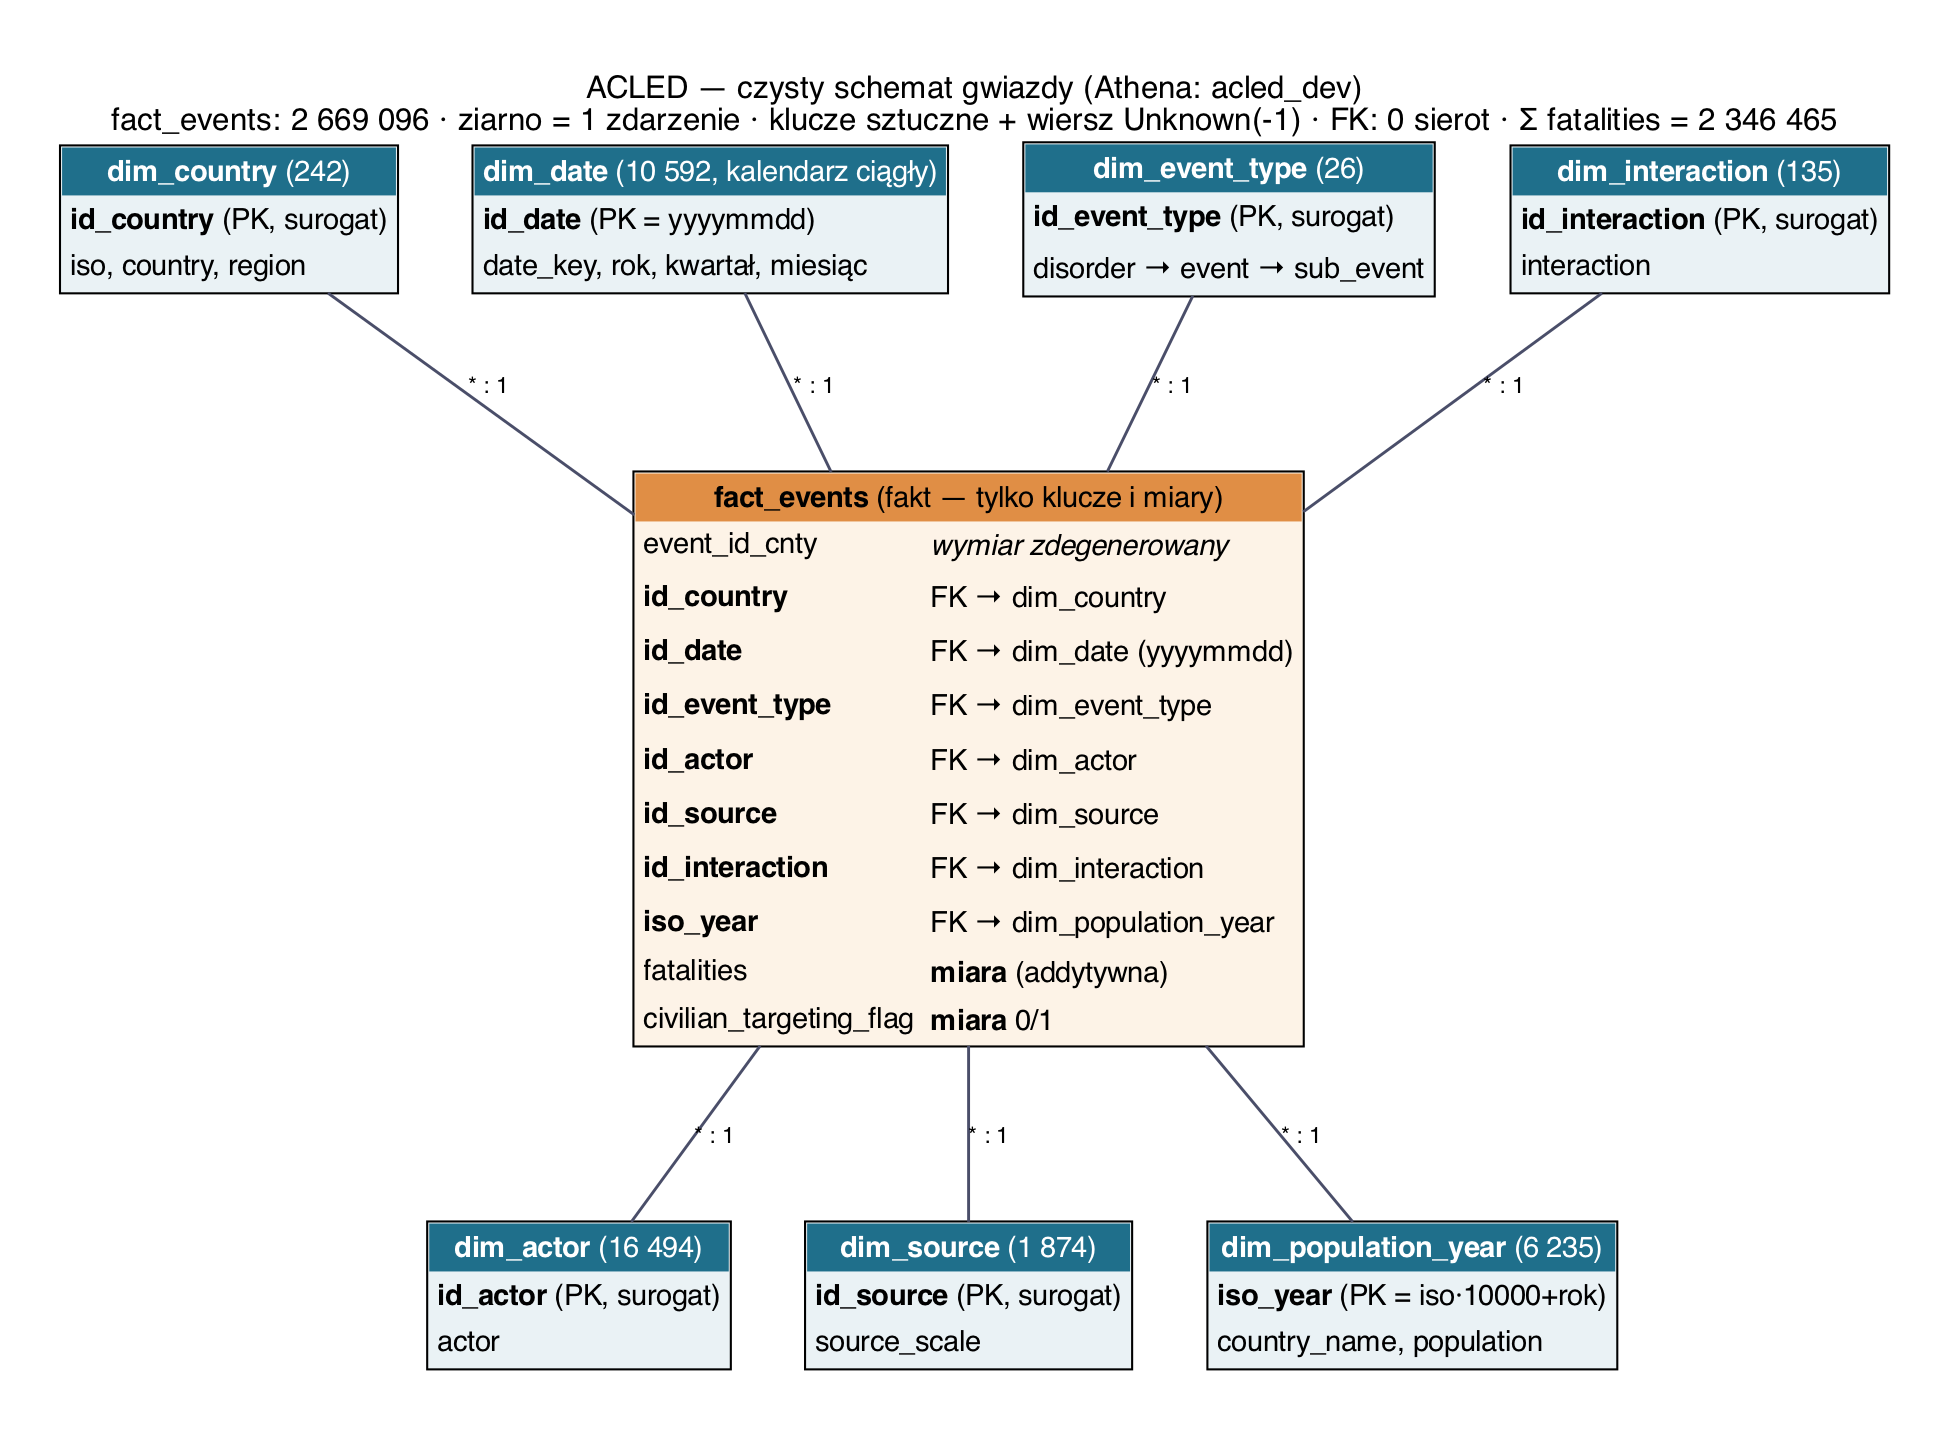
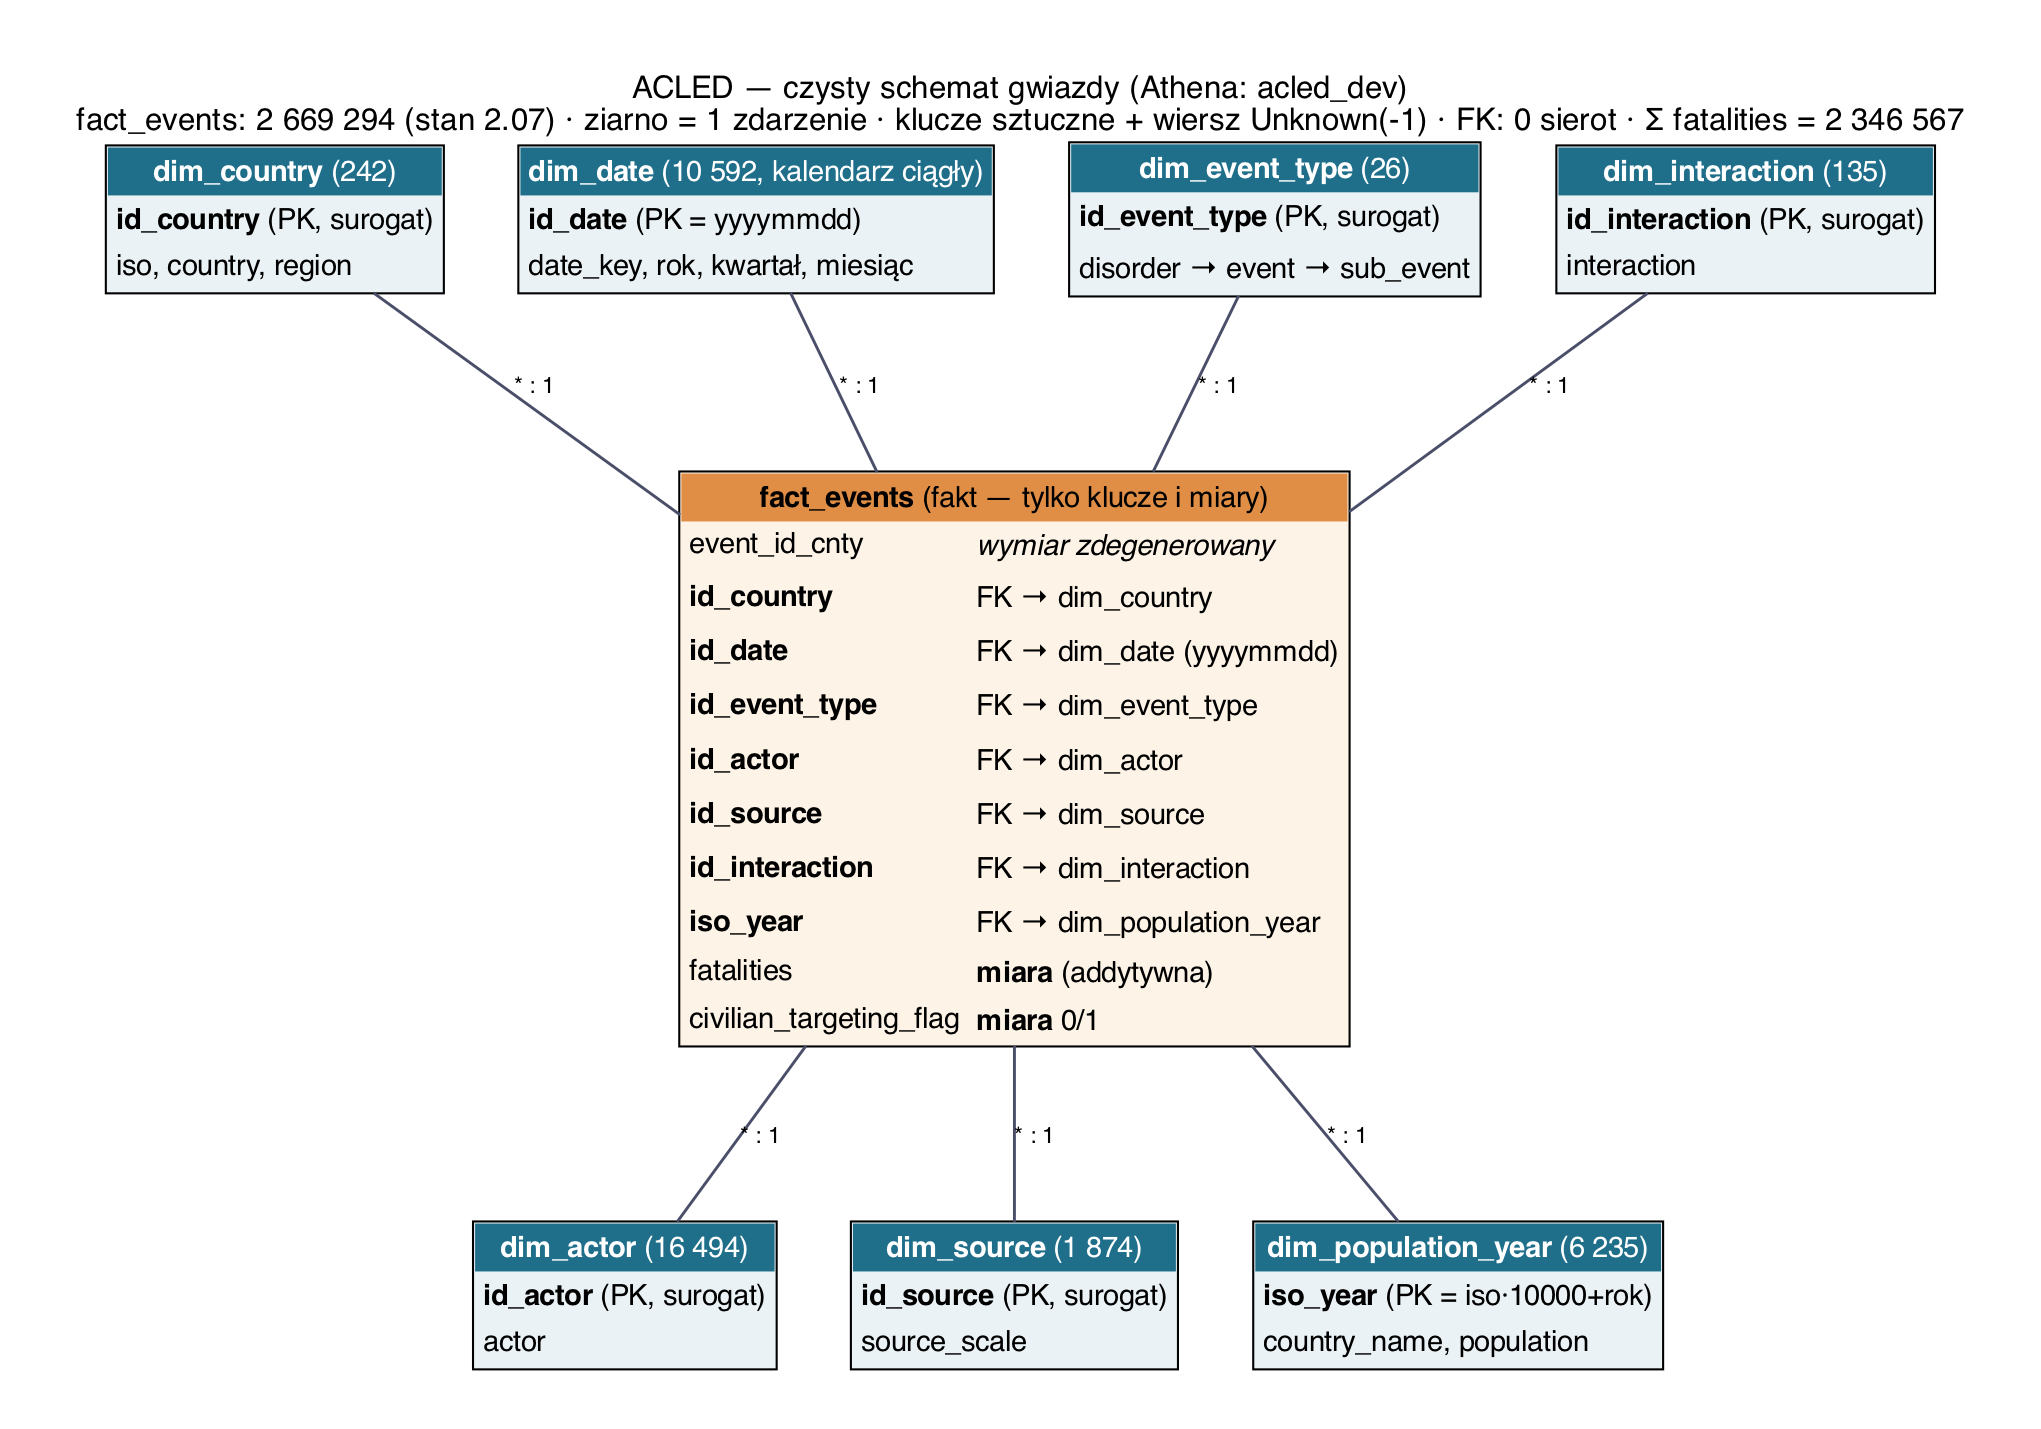
feat: full Glue-branch run green + reconciliation-based validation + new screens
IAM for glue orchestration granted — full end-to-end run (crawler + silver
Spark job + gold + star) succeeded live. Fresh ACLED ingest landed in bronze
(2026-07-02), pipeline picked it up correctly: +198 events, +102 fatalities,
layers agree (bronze dedup == silver == gold == fact).

validate task rewritten from hardcoded snapshots to CROSS-LAYER RECONCILIATION
(silver == gold == fact on count AND fatalities sum) — robust to incremental
loads; the snapshot asserts correctly tripped on the new data, proving their
weakness. Docs/diagram updated to as-of numbers (2,669,294 / 2,346,567).

Screens replaced: 13 captures from the fully-green run incl. crawl_bronze and
silver_transform (previously skipped).

diff --git a/airflow/dags/acled_pipeline.py b/airflow/dags/acled_pipeline.py
@@ -8,7 +8,8 @@ sql/10_star_schema.sql (źródło prawdy = pliki sql/).
 
 Źródła (root cause udokumentowany w sql/06): silver ma poprawne fatalities
 i czyste stringi, bronze-przez-Athena ma interaction; gold_events_wide = hybryda.
-Inwariant po każdym runie: 2 669 096 zdarzeń, 2 346 465 fatalities.
+Walidacja po każdym runie: rekoncyliacja warstw (silver == gold == fakt,
+liczba zdarzeń i suma fatalities) — odporna na przyrostowe zasilanie.
 
 Gałąź Glue (crawler + silver job) jest opt-in (param run_glue), bo wymaga
 uprawnień glue:*. Ścieżka Athena-only działa z Athena+S3+Glue-Data-Catalog.
@@ -225,10 +226,17 @@ def acled_pipeline():
 
     @task
     def validate():
-        """Inwariant: 2 669 096 zdarzeń i 2 346 465 fatalities w fakcie."""
+        """Rekoncyliacja warstw: silver == gold == fakt (liczba zdarzeń ORAZ suma
+        fatalities). Odporna na przyrostowe zasilanie — sprawdzamy zgodność
+        między warstwami, nie zahardkodowane snapshoty (te pękają, gdy ingest
+        dowiezie nowe dane — co jest poprawnym zachowaniem, nie błędem)."""
         c = boto3.client("athena", region_name=REGION)
         qid = c.start_query_execution(
-            QueryString="SELECT count(*), sum(fatalities) FROM acled_dev.fact_events",
+            QueryString=(
+                "SELECT 'silver' l, count(*) c, sum(fatalities) f FROM acled_dev.silver_events_full "
+                "UNION ALL SELECT 'gold', count(*), sum(fatalities) FROM acled_dev.gold_events_wide "
+                "UNION ALL SELECT 'fact', count(*), sum(fatalities) FROM acled_dev.fact_events"
+            ),
             QueryExecutionContext={"Database": DB},
             ResultConfiguration={"OutputLocation": ATHENA_OUT},
             WorkGroup=WORKGROUP,
@@ -238,10 +246,13 @@ def acled_pipeline():
             if st in ("SUCCEEDED", "FAILED", "CANCELLED"):
                 break
             time.sleep(2)
-        row = c.get_query_results(QueryExecutionId=qid)["ResultSet"]["Rows"][1]["Data"]
-        events, fatalities = int(row[0]["VarCharValue"]), int(row[1]["VarCharValue"])
-        assert events == 2_669_096, f"events {events} != 2669096"
-        assert fatalities == 2_346_465, f"fatalities {fatalities} != 2346465"
+        rows = c.get_query_results(QueryExecutionId=qid)["ResultSet"]["Rows"][1:]
+        stats = {r["Data"][0]["VarCharValue"]:
+                 (int(r["Data"][1]["VarCharValue"]), int(r["Data"][2]["VarCharValue"]))
+                 for r in rows}
+        print(f"rekoncyliacja: {stats}")
+        assert stats["silver"] == stats["gold"] == stats["fact"], f"warstwy niespójne: {stats}"
+        assert stats["fact"][0] > 2_600_000, f"podejrzanie mało zdarzeń: {stats['fact'][0]}"
 
     gold = gold_events_wide()
     fact = fact_events()

diff --git a/docs/OBRONA_SCIAGA.md b/docs/OBRONA_SCIAGA.md
@@ -22,8 +22,8 @@ gold, **modelem semantycznym i raportami w Power BI**. Całość odpowiada na
 - **ACLED** (Armed Conflict Location & Event Data) — publiczny, ekspercki
   rejestr zdarzeń konfliktowych: bitwy, protesty, zamieszki, przemoc wobec
   cywilów, ostrzały. Dane NIE są generowane — pobieramy z oficjalnego API
-  (wymóg projektu). Zakres: 1997–2025, cały świat, 2 669 096 zdarzeń po
-  deduplikacji.
+  (wymóg projektu). Zakres: 1997–2025, cały świat, ~2,67 mln zdarzeń po deduplikacji
+  (rośnie przyrostowo; 2 669 294 na 2.07.2026).
 - **World Bank, wskaźnik SP.POP.TOTL** — populacja kraj×rok (6 235 wierszy,
   215 krajów), do pytań per capita.
 - **12 pytań biznesowych** (README): geografia i skala (Q1–2), trendy czasowe
@@ -55,7 +55,7 @@ ACLED API ──(1) Python ingest──► BRONZE (S3, surowe CSV, append-only)
                   (6) Power BI: model semantyczny (DAX) + raporty
         ────────────────────────────────────────────────────────────
         Orkiestracja kroków 2–5: Apache Airflow (DAG acled_pipeline)
-        + task `validate` (asserty inwariantów po każdym runie)
+        + task `validate` (rekoncyliacja warstw po każdym runie)
 ```
 
 ### 2.1 Ekstrakcja (E) — `src/ingest.py`
@@ -83,8 +83,8 @@ ACLED API ──(1) Python ingest──► BRONZE (S3, surowe CSV, append-only)
   - **anti-join z `deletes`** — usuwamy skasowane,
   - typowanie (daty, inty, double),
   - zapis do **Parquet** (kolumnowy, kompresowany — patrz pyt. o wydajność).
-- Wynik: dokładnie **2 669 096** wierszy (z 2 669 918 surowych — 822
-  duplikaty/delete'y usunięte).
+- Wynik: jeden wiersz na zdarzenie (2 669 294 na 2.07.2026); duplikaty
+  i delete'y usuwane przy każdym zasileniu.
 
 ### 2.4 Gold — integracja i czyszczenie (`sql/06`)
 - `gold_events_wide` = oczyszczona, szeroka tabela zdarzeń w Athena:
@@ -103,7 +103,7 @@ ACLED API ──(1) Python ingest──► BRONZE (S3, surowe CSV, append-only)
 - **Temat**: zdarzenia konfliktów. **Ziarnistość**: jedno zdarzenie (fakt
   transakcyjny). **Miary**: `fatalities` (addytywna), `civilian_targeting_flag`
   (0/1, addytywna — sumą jest liczba zdarzeń wymierzonych w cywilów).
-- **Fakt `fact_events`** (2 669 096): WYŁĄCZNIE klucze wymiarów + miary
+- **Fakt `fact_events`** (~2,67 mln): WYŁĄCZNIE klucze wymiarów + miary
   (Zasada nr 1 z wykładu 3) + `event_id_cnty` jako **wymiar zdegenerowany**
   (unikalny per wiersz — dokładnie jak „NrZamówienia" z wykładu).
 - **7 wymiarów, wszystkie z kluczami sztucznymi**:
@@ -207,9 +207,9 @@ uszkodzeniu?"), integrację formatów i wartość rekoncyliacji niezależnych
 
 | Liczba | Co to |
 |---|---|
-| **2 669 096** | zdarzeń po dedup (inwariant nr 1 — w KAŻDEJ tabeli) |
-| **2 346 465** | suma ofiar (inwariant nr 2 — w KAŻDEJ tabeli) |
-| 2 669 918 → 822 | surowe wiersze → usunięte duplikaty/delete'y |
+| **2 669 294** | zdarzeń po dedup (stan 2.07.2026; rekoncyliacja: silver==gold==fakt) |
+| **2 346 567** | suma ofiar (stan 2.07.2026; druga metryka rekoncyliacji) |
+| ~2,67 mln po dedup | duplikaty + delete'y usuwane przy każdym zasileniu |
 | 1997–2025 | zakres danych; 10 592 dni w dim_date |
 | 242 / 26 / 16 494 / 1 874 / 134 / 6 235 | wiersze wymiarów (kraj / typ / aktor / źródło / interakcja / populacja) |
 | 431 695 | zdarzenia z celowaniem w cywilów (~16%) |
@@ -348,7 +348,7 @@ duże legendy, drill-down od ogółu do szczegółu.
 3. **Airflow** (`docker compose up -d`, `localhost:8080`) — Trigger DAG
    (bez `run_glue`) → zielony graf w ~2 min → pokaż log `validate`.
 4. **Athena** — `SELECT count(*), sum(fatalities) FROM acled_dev.fact_events`
-   → 2 669 096 / 2 346 465.
+   → liczby zgodne między warstwami (rekoncyliacja).
 5. **Power BI** — widok modelu (gwiazda!), miara w DAX, dashboard, drill-down
    Rok→Kwartał→Miesiąc, slicer, mapa.
 6. Puenta: historia z cudzysłowami (sekcja 4) — pokazuje, że rozumiemy nie

diff --git a/docs/etl_mapowania.md b/docs/etl_mapowania.md
@@ -5,8 +5,9 @@ zgodnie z wymaganiami zadania. Każdy etap odpowiada zadaniu w DAG-u Airflow
 `acled_pipeline` (screeny udanego ładowania każdego wymiaru i faktów — katalog
 `screeny/`, widok grafu + logi zadań z Airflow UI).
 
-Inwariant kontrolny po pełnym przebiegu: **2 669 096 zdarzeń**,
-**2 346 465 fatalities** — walidowany automatycznie zadaniem `validate` w DAG-u.
+Kontrola po pełnym przebiegu: **rekoncyliacja warstw** — liczba zdarzeń i suma
+fatalities muszą być identyczne w silver == gold == fakt (zadanie `validate`
+w DAG-u). Dane rosną przyrostowo; stan na 2.07.2026: 2 669 294 / 2 346 567.
 
 ---
 
@@ -92,7 +93,7 @@ wykład 3) + wymiar zdegenerowany `event_id_cnty`.
 
 | Kontrola | Oczekiwane | Jak |
 |---|---|---|
-| liczba zdarzeń w fakcie | 2 669 096 | `COUNT(*)` — assert w DAG-u |
-| suma fatalities | 2 346 465 | `SUM(fatalities)` — assert w DAG-u |
+| zgodność liczby zdarzeń | silver == gold == fakt | rekoncyliacja — assert w DAG-u |
+| zgodność sumy fatalities | silver == gold == fakt | rekoncyliacja — assert w DAG-u |
 | integralność FK (sieroty) | 0 dla każdego wymiaru | LEFT JOIN fakt→wymiar, `COUNT(id IS NULL)` |
 | unikalność surogatów | rows = distinct w każdym wymiarze | `COUNT(*) vs COUNT(DISTINCT id)` |
